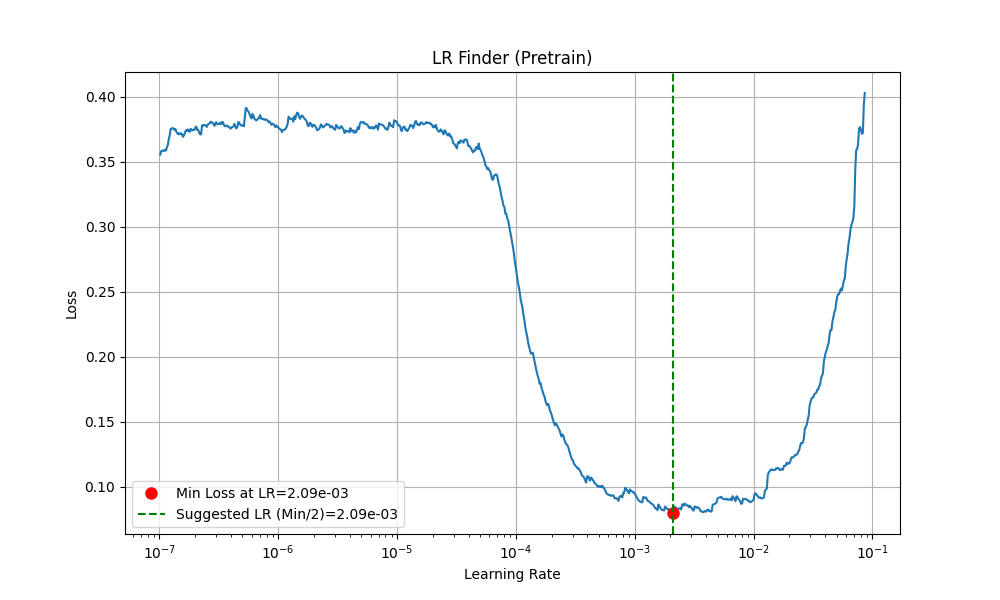
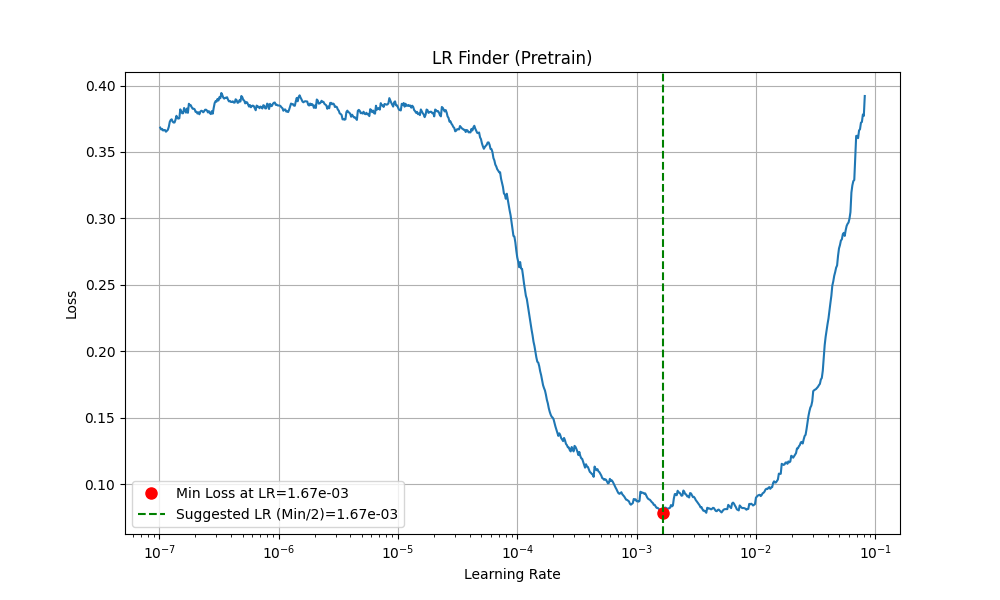
update

diff --git a/src/optimizer_utils.py b/src/optimizer_utils.py
@@ -1,15 +1,24 @@
-# src/optimizer_utils.py
+# src/optimizer_utils.py (请替换整个文件)
+
 import torch.nn as nn
 from torch.optim import AdamW
 from typing import List
 
+# <<< --- 核心修改：重新引入 ratio 参数 --- >>>
 
-def create_discriminative_optimizer(model: nn.Module, head_lr: float, ratio: float, weight_decay: float = 1e-4):
+
+def create_discriminative_optimizer(
+    model: nn.Module,
+    head_lr: float,
+    gap_ratio: float,
+    internal_ratio: float,
+    weight_decay: float = 1e-4
+):
     """
-    创建差分学习率优化器。(v4 - Head First)
-    - Head (hetero_head + backbone的最后一层) 学习率最高
-    - Backbone 的其余层学习率从后向前按 `ratio` 呈指数衰减
-    - Head Group 放在最前面，以便 LR Finder 跟踪。
+    创建差分学习率优化器。(v6 - 可配置比例)
+    - Head: head_lr
+    - Backbone 躯干顶层: head_lr / gap_ratio
+    - Backbone 躯干其余层: 在 (head_lr / gap_ratio) 的基础上，每层再除以 internal_ratio
     """
     param_groups = []
 
@@ -22,51 +31,66 @@ def create_discriminative_optimizer(model: nn.Module, head_lr: float, ratio: flo
     # 2. 拆分
     backbone_head_layer = all_backbone_layers[-1:]  # 最后一层
     backbone_trunk = all_backbone_layers[:-1]       # 其余层
-    num_trunk_layers = len(backbone_trunk)
 
-    print("--- [Optimizer] 应用逐层差分学习率 (Head First) ---")
+    if not backbone_trunk:
+        print("警告: Backbone 只有一个线性层。所有层都将被视为 Head。")
 
-    # 3. (核心修改) 添加所有的 "头" (学习率最高)
-    #    这包括 backbone 的最后一层和 hetero_head
+    print(
+        f"--- [Optimizer] 应用逐层差分学习率 (v6 - Gap={gap_ratio}, Internal={internal_ratio}) ---")
+
+    # 3. 添加 Head (学习率最高)
     head_params = list(backbone_head_layer[0].parameters()) + \
         list(model.hetero_head.parameters())
-
     param_groups.append({
         "params": head_params,
         "lr": head_lr
     })
-    print(
-        f"  - Model Heads (Backbone_last + Hetero) LR: {head_lr:.2e} (Ratio=1/1)")
+    print(f"  - Model Heads (Backbone_last + Hetero) LR: {head_lr:.2e}")
 
-    # 4. 从后向前添加 Backbone "躯干" 层 (学习率最低)
-    for i, layer in enumerate(reversed(backbone_trunk)):
-        # 衰减指数：躯干的最后一层是 1, ..., 躯干的第一层是 N
-        exponent = i + 1
-        lr = head_lr / (ratio ** exponent)
+    # 4. 添加 Backbone "躯干" 层 (从后向前)
+    if backbone_trunk:
+        top_trunk_layer = backbone_trunk[-1:]
+        top_trunk_lr = head_lr / gap_ratio  # <<< --- 使用参数
 
         param_groups.append({
-            "params": layer.parameters(),
-            "lr": lr
+            "params": top_trunk_layer[0].parameters(),
+            "lr": top_trunk_lr
         })
         print(
-            f"  - Backbone Trunk (Linear {num_trunk_layers - 1 - i}) LR: {lr:.2e} (Ratio=1/{ratio**exponent:.0f})")
+            f"  - Backbone Trunk (Top) LR: {top_trunk_lr:.2e} (Head / {gap_ratio})")
+
+        # 躯干的 "其余层"
+        remaining_trunk = backbone_trunk[:-1]
+        num_remaining = len(remaining_trunk)
+
+        for i, layer in enumerate(reversed(remaining_trunk)):
+            exponent = i + 1
+            lr = top_trunk_lr / (internal_ratio ** exponent)  # <<< --- 使用参数
+
+            param_groups.append({
+                "params": layer.parameters(),
+                "lr": lr
+            })
+            print(
+                f"  - Backbone Trunk (Layer {num_remaining - 1 - i}) LR: {lr:.2e} (Top_Trunk / {internal_ratio**exponent})")
 
     # 5. 安全捕获 (不变)
     grouped_params = set()
     for group in param_groups:
         grouped_params.update(group['params'])
-
     other_params = [
         p for p in model.parameters()
         if p.requires_grad and p not in grouped_params
     ]
-
     if other_params:
-        lowest_lr = head_lr / (ratio ** num_trunk_layers)
+        lowest_lr = head_lr / gap_ratio
+        if backbone_trunk and remaining_trunk:
+            lowest_lr = top_trunk_lr / (internal_ratio ** len(remaining_trunk))
+
         param_groups.append({
             "params": other_params,
             "lr": lowest_lr
         })
-        print(f"  - 其他参数 (e.g., ReLU/Dropout) LR: {lowest_lr:.2e}")
+        print(f"  - 其他参数 LR: {lowest_lr:.2e}")
 
     return AdamW(param_groups, weight_decay=weight_decay)

diff --git a/src/run_experiments.py b/src/run_experiments.py
@@ -260,11 +260,15 @@ for i, params in enumerate(EXPERIMENT_GRID):
     # --- 步骤 C: 寻找最优微调学习率 ---
     # --------------------------------------------------------------------------
     print("\n--- 步骤 C: 正在寻找最优微调学习率... ---")
-    current_ratio = params['backbone_lr_ratio']
+    current_gap_ratio = params['gap_ratio']
+    current_internal_ratio = params['internal_ratio']
+
+    # <<< --- 核心修改：传递 ratio 参数 --- >>>
     optimal_lr_finetune = find_finetune_lr(
         AlignHeteroMLP, model_params, data,
         pretrained_weights_path=str(pretrained_model_path),
-        backbone_lr_ratio=current_ratio,  # <-- 传入当前实验的 ratio
+        gap_ratio=current_gap_ratio,
+        internal_ratio=current_internal_ratio,
         save_plot_path=str(exp_results_path / "lr_finder_finetune.png")
     )
     print(f"   - 找到的最优微调学习率 (lr_finetune_head): {optimal_lr_finetune:.2e}")
@@ -273,21 +277,25 @@ for i, params in enumerate(EXPERIMENT_GRID):
     # --- 步骤 D: 运行 Finetune + Evaluate ---
     # --------------------------------------------------------------------------
     print(
-        f"\n--- 步骤 D: 正在执行 Finetune + Evaluate (Ratio={current_ratio})... ---")
+        f"\n--- 步骤 D: 正在执行 Finetune + Evaluate (Gap={current_gap_ratio}, Internal={current_internal_ratio})... ---")
+
     finetune_command = [
         "python", "train.py", "--opamp", OPAMP_TYPE,
         "--hidden_dims", str(params['hidden_dims']),
         "--dropout_rate", str(params['dropout_rate']),
 
-        # 传入自动找到的微调LR 和 网格中的Ratio
+        # 传入自动找到的微调LR
         "--lr_finetune", str(optimal_lr_finetune),
-        "--backbone_lr_ratio", str(current_ratio),
+
+        # <<< --- 核心修改：传递 ratio 参数 --- >>>
+        "--gap_ratio", str(current_gap_ratio),
+        "--internal_ratio", str(current_internal_ratio),
 
         "--save_path", str(exp_results_path),
         "--results_file", str(final_results_file),
 
-        "--finetune",   # <-- 关键：跳过预训练，只微调
-        "--evaluate"    # <-- 关键：微调后立即评估
+        "--finetune",
+        "--evaluate"
     ]
 
     success, stdout_lines, _ = run_command(

diff --git a/src/find_lr_utils.py b/src/find_lr_utils.py
@@ -113,8 +113,10 @@ def find_pretrain_lr(
 # src/find_lr_utils.py (替换整个 find_finetune_lr 函数)
 
 def find_finetune_lr(
-    model_class, model_params, data, pretrained_weights_path: str, backbone_lr_ratio=config.BACKBONE_LR_RATIO,
-    end_lr=10.0, num_iter=1000, batch_size=64, device="cuda", save_plot_path: str = None
+    model_class, model_params, data, pretrained_weights_path: str,
+    gap_ratio: float = config.GAP_RATIO,
+    internal_ratio: float = config.INTERNAL_RATIO,
+    end_lr=10.0, num_iter=1000, batch_size=128, device="cuda", save_plot_path: str = None
 ):
     device = torch.device(device if torch.cuda.is_available() else "cpu")
     if not Path(pretrained_weights_path).exists():
@@ -126,12 +128,15 @@ def find_finetune_lr(
 
     start_lr = 1e-7
 
-    # <<< --- 核心修改：使用与 train.py 一致的优化器 --- >>>
+    # <<< --- 核心修改：使用传入的 ratio 参数 --- >>>
+    print(
+        f"--- [Finetune LR Finder] 使用 (v6 - Gap={gap_ratio}, Internal={internal_ratio}) ---")
     optimizer = create_discriminative_optimizer(
         model=original_model,
-        head_lr=start_lr,  # LR Finder 将从这里开始缩放
-        ratio=backbone_lr_ratio,  # 从 config.py 读取固定的比例
-        weight_decay=1e-4  # 保持一致
+        head_lr=start_lr,
+        gap_ratio=gap_ratio,
+        internal_ratio=internal_ratio,
+        weight_decay=1e-4
     )
 
     def criterion(model_output, y_true): return heteroscedastic_nll(
@@ -217,6 +222,6 @@ if __name__ == '__main__':
         suggested_lr_finetune = find_finetune_lr(
             AlignHeteroMLP, test_model_params, test_data,
             pretrained_weights_path=PRETRAINED_PATH,
-            num_iter=800, save_plot_path="lr_finder_finetune_test.png"
+            num_iter=1000, save_plot_path="lr_finder_finetune_test.png"
         )
         print(f"手动测试 (Finetune) 完成。建议学习率: {suggested_lr_finetune:.2e}")

diff --git a/src/train.py b/src/train.py
@@ -55,8 +55,12 @@ def setup_args():
                         default=config.LEARNING_RATE_PRETRAIN, help="学习率")
     parser.add_argument("--lr_finetune", type=float,
                         default=config.LEARNING_RATE_FINETUNE, help="微调阶段 head 的学习率")
-    parser.add_argument("--backbone_lr_ratio", type=float, default=config.BACKBONE_LR_RATIO,
-                        help="用于微调Backbone的学习率缩放比例 (lr_finetune / ratio)")
+    parser.add_argument("--gap_ratio", type=float,
+                        default=config.GAP_RATIO,
+                        help="Head 与 Backbone 顶层之间的学习率比例")
+    parser.add_argument("--internal_ratio", type=float,
+                        default=config.INTERNAL_RATIO,
+                        help="Backbone 内部层与层之间的学习率比例")
     parser.add_argument("--epochs_finetune", type=int,
                         default=config.EPOCHS_FINETUNE, help="微调阶段的总轮数")
     parser.add_argument("--batch_a", type=int,
@@ -162,8 +166,10 @@ def run_finetuning(model, data_loaders, device, final_save_path, args):
     opt = create_discriminative_optimizer(
         model=model,
         head_lr=args.lr_finetune,
-        ratio=args.backbone_lr_ratio
+        gap_ratio=args.gap_ratio,
+        internal_ratio=args.internal_ratio
     )
+
     dl_A, dl_B, dl_val = data_loaders['source_full'], data_loaders['target_train'], data_loaders['target_val']
     dl_A_iter = iter(dl_A)
     best_val = float('inf')

diff --git a/src/config.py b/src/config.py
@@ -38,7 +38,8 @@ LEARNING_RATE_PRETRAIN = 2.2e-3
 EPOCHS_FINETUNE = 100000  # 配合早停
 PATIENCE_FINETUNE = 500
 LEARNING_RATE_FINETUNE = 7e-3
-BACKBONE_LR_RATIO = 10.0
+GAP_RATIO = 10.0          # Head 与 Backbone 顶层之间的比例
+INTERNAL_RATIO = 2.0      # Backbone 内部层与层之间的比例
 BATCH_A = 128
 BATCH_B = 64  # 线性缩放规则
 
